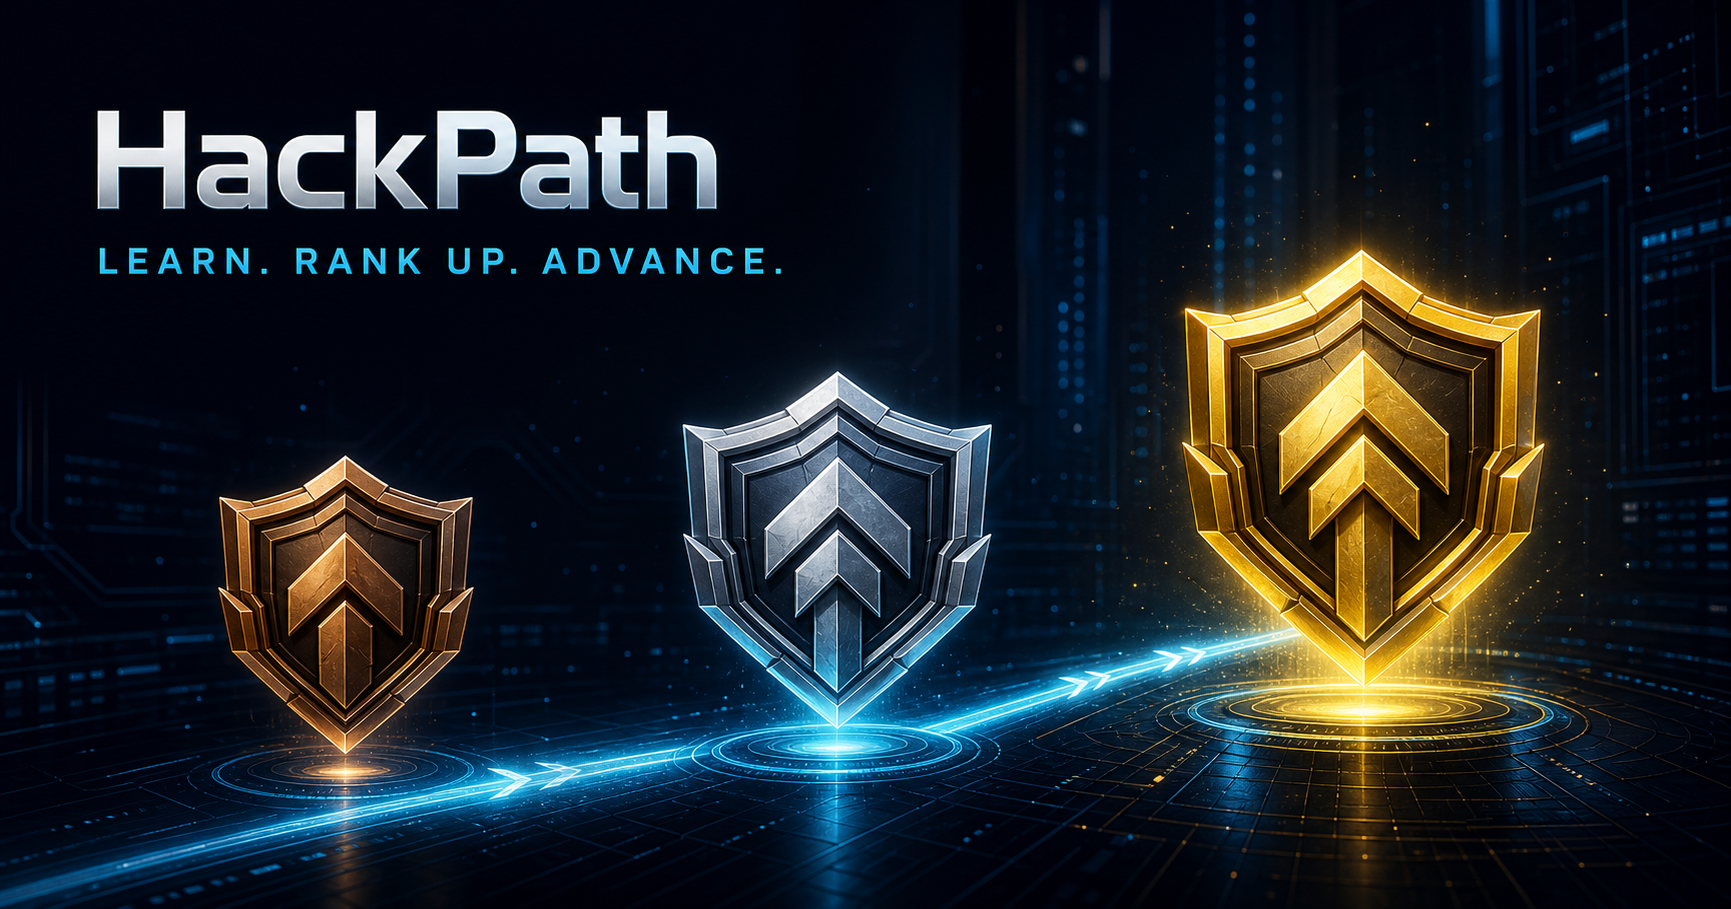
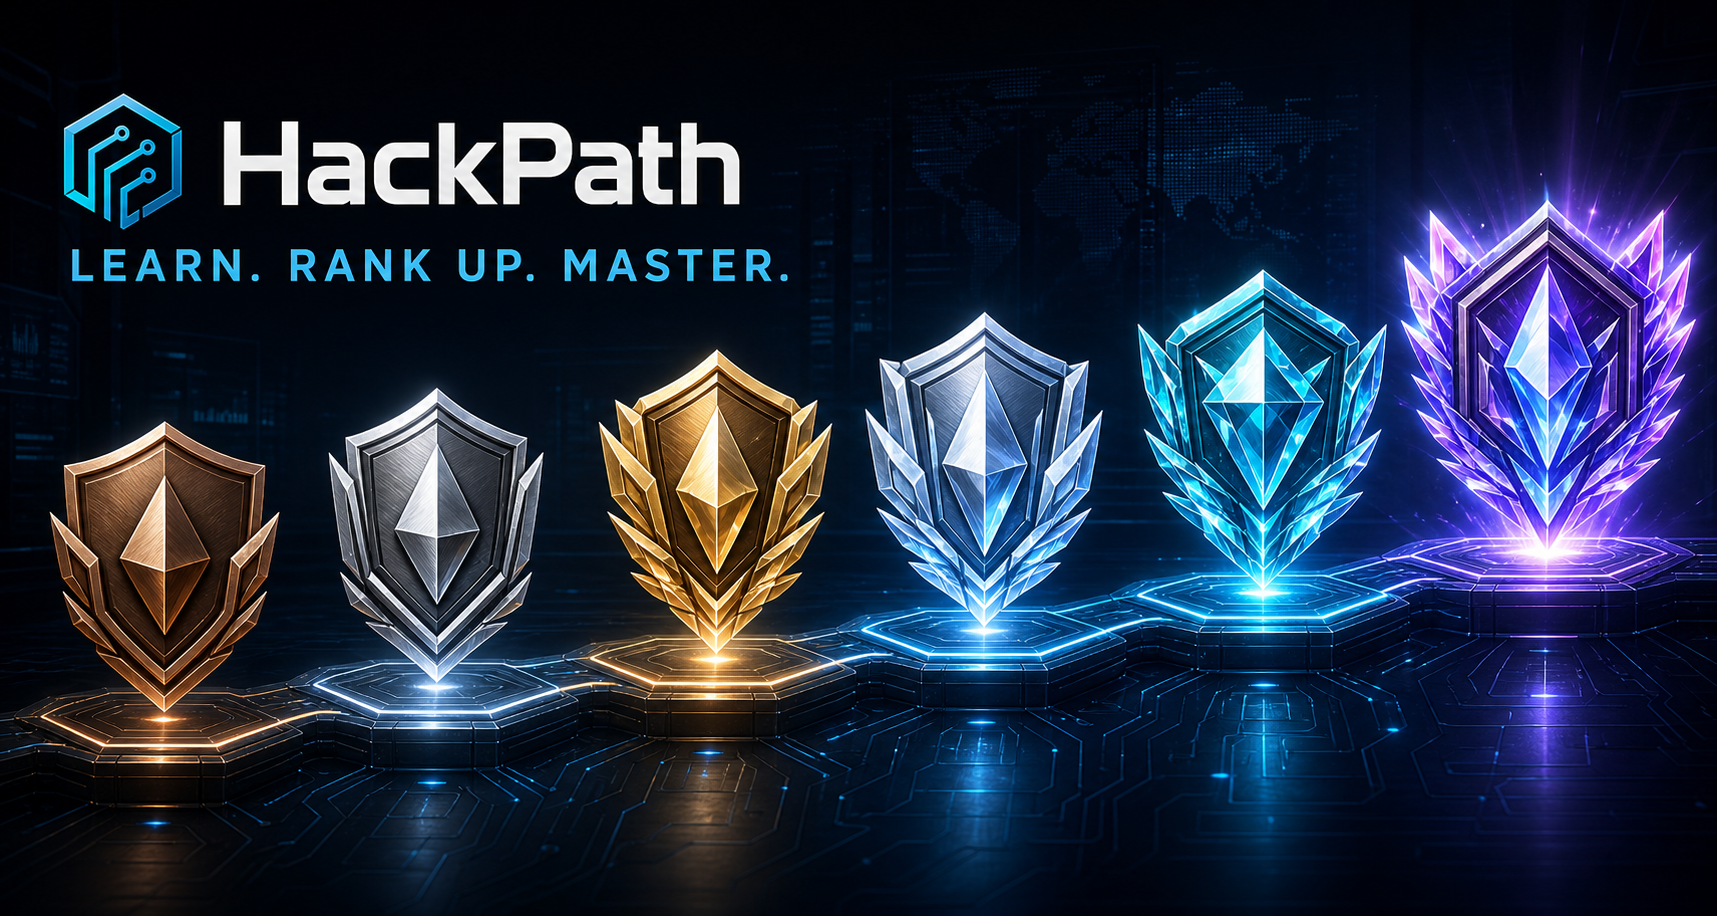
feat: extend operator ranks beyond gold

diff --git a/src/pages/dashboard.js b/src/pages/dashboard.js
@@ -1,7 +1,7 @@
 import { getState, getQuizStats, getOverallProgress, getTopicProgress } from '../store.js'
 import { roadmapTopics } from '../data/topics.js'
 import { questions } from '../data/questions.js'
-import { getAccountRank, getCourseRank, learningRanks } from '../data/ranks.js'
+import { accountRanks, getAccountRank, getCourseRank } from '../data/ranks.js'
 import { renderRankBadge, renderRankEmblem } from '../components/rank.js'
 
 export function renderDashboard() {
@@ -50,12 +50,12 @@ export function renderDashboard() {
         <div class="rank-xp-row"><strong>${state.xp} XP</strong><span>${accountRank.next ? `次の${accountRank.next.label}まで ${accountRank.remainingXP} XP` : '最高ランク到達'}</span></div>
         <div class="rank-meter"><span style="width: ${accountRank.progress}%"></span></div>
       </div>
-      <div class="rank-command-number">0${learningRanks.indexOf(accountRank.current) + 1}</div>
+      <div class="rank-command-number">0${accountRanks.indexOf(accountRank.current) + 1}</div>
     </section>
 
     <div class="rank-ladder" aria-label="学習ランク一覧">
-      ${learningRanks.map((rank, index) => `
-        <div class="rank-ladder-step rank-${rank.id} ${index <= learningRanks.indexOf(accountRank.current) ? 'is-active' : ''}">
+      ${accountRanks.map((rank, index) => `
+        <div class="rank-ladder-step rank-surface-${rank.id} ${index <= accountRanks.indexOf(accountRank.current) ? 'is-active' : ''}">
           <span class="rank-step-index">0${index + 1}</span>
           <span class="rank-gem" aria-hidden="true"></span>
           <div><strong>${rank.name}</strong><small>${rank.stage} · ${rank.tagline}</small></div>
@@ -73,7 +73,7 @@ export function renderDashboard() {
     <section class="section">
       <div class="section-header rank-section-header">
         <div><span class="eyebrow">MISSION SELECT</span><h2>学習コース</h2></div>
-        <a href="#/roadmap" class="btn btn-secondary" data-nav="/roadmap">全ランクを見る →</a>
+        <a href="#/roadmap" class="btn btn-secondary" data-nav="/roadmap">学習ステージを見る →</a>
       </div>
       <div class="topic-grid">${topicCards}</div>
     </section>

diff --git a/src/style.css b/src/style.css
@@ -947,6 +947,9 @@ code {
 .rank-surface-bronze { --rank-color: #d99058; --rank-rgb: 217, 144, 88; --rank-deep: #6f351f; }
 .rank-surface-silver { --rank-color: #c8d4e4; --rank-rgb: 200, 212, 228; --rank-deep: #52677f; }
 .rank-surface-gold { --rank-color: #ffd166; --rank-rgb: 255, 209, 102; --rank-deep: #8b6115; }
+.rank-surface-platinum { --rank-color: #9bf6ff; --rank-rgb: 155, 246, 255; --rank-deep: #367f8c; }
+.rank-surface-diamond { --rank-color: #6ee7ff; --rank-rgb: 110, 231, 255; --rank-deep: #1b6fa4; }
+.rank-surface-master { --rank-color: #d8a4ff; --rank-rgb: 216, 164, 255; --rank-deep: #7138a5; }
 .rank-badge { display: inline-flex; align-items: center; gap: 10px; width: fit-content; padding: 8px 12px; border: 1px solid rgba(var(--rank-rgb), .45); border-radius: 999px; color: var(--rank-color); background: linear-gradient(135deg, rgba(var(--rank-rgb), .14), rgba(var(--rank-rgb), .04)); box-shadow: inset 0 1px 0 rgba(255,255,255,.08); }
 .rank-badge-compact { padding: 6px 10px; }
 .rank-badge-copy { display: grid; line-height: 1.05; }
@@ -978,6 +981,10 @@ code {
 .rank-ladder { display: grid; grid-template-columns: repeat(3,1fr); gap: 12px; margin: 18px 0 28px; }
 .rank-ladder-step { display: flex; gap: 12px; align-items: center; padding: 14px; border: 1px solid var(--border); border-radius: 12px; background: var(--card-bg); opacity: .58; }
 .rank-ladder-step.is-active { border-color: rgba(var(--rank-rgb),.5); opacity: 1; box-shadow: inset 0 -2px 0 var(--rank-color); }
+.rank-ladder-step.rank-surface-platinum,
+.rank-ladder-step.rank-surface-diamond,
+.rank-ladder-step.rank-surface-master { background: linear-gradient(135deg,rgba(var(--rank-rgb),.09),var(--card-bg) 58%); }
+.rank-ladder-step.rank-surface-master.is-active { box-shadow: inset 0 -2px 0 var(--rank-color), 0 0 24px rgba(var(--rank-rgb),.13); }
 .rank-step-index { color: var(--rank-color); font-size: 11px; font-weight: 900; }
 .rank-ladder-step strong, .rank-ladder-step small { display: block; }
 .rank-ladder-step small { margin-top: 3px; color: var(--text); }

diff --git a/src/data/ranks.js b/src/data/ranks.js
@@ -28,15 +28,46 @@ export const learningRanks = [
   },
 ]
 
+export const accountRanks = [
+  ...learningRanks,
+  {
+    id: 'platinum',
+    name: 'PLATINUM',
+    label: 'プラチナ',
+    stage: '熟練',
+    tagline: '専門性を磨き上げる',
+    xpMin: 3000,
+    color: '#9bf6ff',
+  },
+  {
+    id: 'diamond',
+    name: 'DIAMOND',
+    label: 'ダイヤモンド',
+    stage: '達人',
+    tagline: '複数分野を極める',
+    xpMin: 6000,
+    color: '#6ee7ff',
+  },
+  {
+    id: 'master',
+    name: 'MASTER',
+    label: 'マスター',
+    stage: '伝説',
+    tagline: '知識で道を切り拓く',
+    xpMin: 10000,
+    color: '#d8a4ff',
+  },
+]
+
 export function getAccountRank(xp = 0) {
   const safeXP = Number.isFinite(Number(xp)) ? Number(xp) : 0
   let currentIndex = 0
-  learningRanks.forEach((rank, index) => {
+  accountRanks.forEach((rank, index) => {
     if (safeXP >= rank.xpMin) currentIndex = index
   })
 
-  const current = learningRanks[currentIndex]
-  const next = learningRanks[currentIndex + 1] || null
+  const current = accountRanks[currentIndex]
+  const next = accountRanks[currentIndex + 1] || null
   const progress = next
     ? Math.round(((safeXP - current.xpMin) / (next.xpMin - current.xpMin)) * 100)
     : 100

diff --git a/src/components/rank.js b/src/components/rank.js
@@ -1,7 +1,7 @@
 export function renderRankBadge(rank, options = {}) {
   const { compact = false, completed = false } = options
   return `
-    <span class="rank-badge rank-${rank.id} ${compact ? 'rank-badge-compact' : ''} ${completed ? 'is-complete' : ''}">
+    <span class="rank-badge rank-surface-${rank.id} rank-${rank.id} ${compact ? 'rank-badge-compact' : ''} ${completed ? 'is-complete' : ''}">
       <span class="rank-gem" aria-hidden="true"></span>
       <span class="rank-badge-copy">
         <strong>${rank.name}</strong>
@@ -13,7 +13,7 @@ export function renderRankBadge(rank, options = {}) {
 
 export function renderRankEmblem(rank) {
   return `
-    <div class="rank-emblem rank-${rank.id}" aria-label="現在のランク ${rank.label}">
+    <div class="rank-emblem rank-surface-${rank.id} rank-${rank.id}" aria-label="現在のランク ${rank.label}">
       <div class="rank-emblem-core">
         <span class="rank-emblem-mark">H</span>
       </div>
